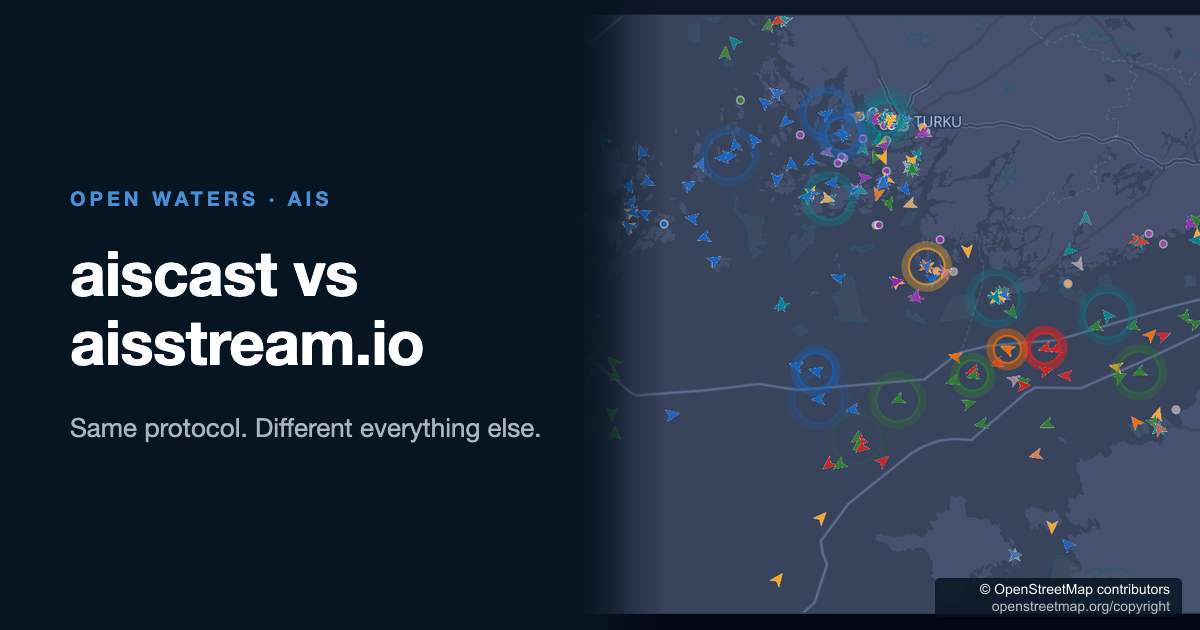
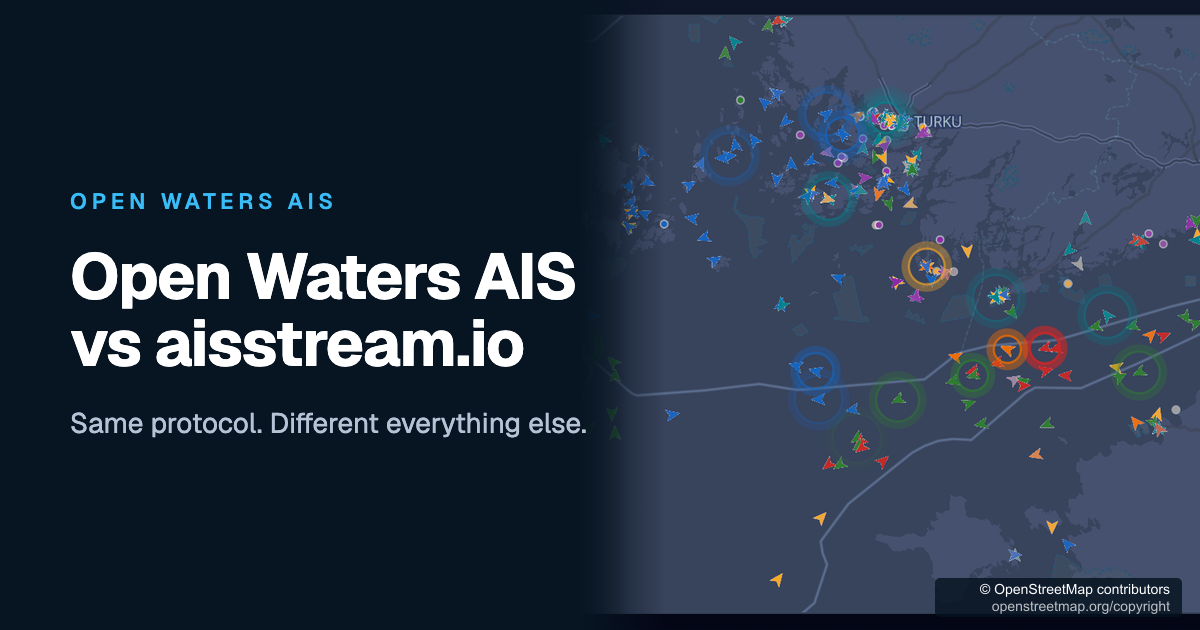
Fix review findings on the AIS pages
Count authenticated stations in the volunteer row, show active vessels
in the hero, describe contributor limits as they are, refuse to publish
a privacy policy draft with a placeholder, and finish the rename in
llms.txt and the comparison page's social image.

Changed region(s): [[0.0617, 0.3921, 0.4933, 0.6032], [0.0617, 0.6333, 0.4933, 0.6937], [0.0617, 0.3016, 0.2775, 0.3317]]

diff --git a/website/src/components/ais/snippets.ts b/website/src/components/ais/snippets.ts
@@ -109,6 +109,6 @@ SUB='{"type":"subscribe","bbox":[[59,10,60,11]]}'
 echo "$SUB" | websocat -n wss://${SERVER}/v1/stream
 
 # snapshot of what is in the box right now
-curl "https://${SERVER}/v1/vessels?bbox=${bbox}"`,
+curl "https://${SERVER}/v1/vessels?bbox=${bbox}&max_age=30m"`,
   },
 ];

diff --git a/CONTRIBUTING.md b/CONTRIBUTING.md
@@ -49,6 +49,8 @@ Avoid spreading large numeric arrays into `Math.min` or `Math.max`; the argument
 
 Cloudflare's managed Markdown for Agents feature is unavailable on this zone's plan. `website/src/worker.ts` negotiates `Accept: text/markdown`, using `website/src/utils/negotiate.ts` and the Markdown files generated by the `markdownPages` hook in `website/astro.config.mjs`.
 
+`website/src/pages/ais/privacy.astro` fetches the Open Waters AIS privacy policy from the aiscast repository at build time. Set `AIS_PRIVACY_POLICY_URL` to build against a local copy served over HTTP.
+
 Before adding an Astro integration, check its Astro 7 peer dependency and license. The served crawler policy is `website/public/robots.txt`. A 403 from an agent sandbox can be Cloudflare reacting to the sandbox request fingerprint; verify crawler access in Cloudflare's AI Crawl Control dashboard.
 
 ## Deployment
